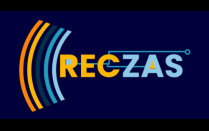
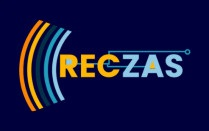
Add new images and remove outdated files; update script and style files

diff --git a/index.html b/index.html
@@ -102,7 +102,7 @@ Feel free to edit the HTML and CSS to make it your own. You can also check the R
             <div class="contact-info">
               <p class="contact-title">Phone</p>
 
-              <a href="tel:[phone redacted]" class="contact-link">[phone redacted]</a>
+              <a href="tel:[phone redacted]" class="contact-link">[phone redacted]</a>
             </div>
 
           </li>
@@ -253,10 +253,10 @@ Feel free to edit the HTML and CSS to make it your own. You can also check the R
 
         <section class="about-text">
           <p>
-            I'm a Graduate in Statistics, Computer Science and Mathematics from Colombo, Sri Lanka, passionate in
-            Data Science and AI developments.
-            I enjoy
-            turning complex problems into simple leveragaing AI and data-driven desicion making.
+            I'm a Graduate in Statistics, Computer Science and Mathematics, passionate in
+            Data Science and AI developments.I enjoy turning complex problems into simple by leveraging AI and
+            data-driven
+            desicion making.
           </p>
 
           <p>
@@ -510,7 +510,7 @@ Feel free to edit the HTML and CSS to make it your own. You can also check the R
               </a>
             </li>
             <li class="clients-item">
-              <a href="#">
+              <a href="https://mooflife.com" , target="_blank">
                 <img src="./assets/images/mooflife.jpg" alt="client logo" style="border-radius:12px">
               </a>
             </li>
@@ -591,7 +591,8 @@ Feel free to edit the HTML and CSS to make it your own. You can also check the R
               <span>2024 — Present</span>
 
               <p class="timeline-text">
-                Specializing in building RAG applications, Experienced with LLMs (Llama, OpenAI), LangChain framework,
+                Specializing in building Gen AI applications, Experienced with LLMs (Llama, OpenAI), LangChain
+                framework,
                 vector databases and prompt engineering techniques. Responsible for the full development lifecycle, from
                 requirements gathering to API development, deployment and maintenance.
                 <span><i>OpenAI, LangChain, MongoDB, Qdrant, FastAPI, GitHub Actions, Azure</i></span>
@@ -619,14 +620,14 @@ Feel free to edit the HTML and CSS to make it your own. You can also check the R
               <span>2024 — Present</span>
 
               <p class="timeline-text">
-                With the motive of learn & teach distributing the industrial knowledge, I am currently working on a
-                long_term project to help university students to learn and develop AI applications, with the help of
+                With the motive distributing the industrial knowledge, I am currently working on a
+                long-term project to help university students to learn and develop AI applications, with the help of
                 Reczas Team.
               </p>
 
             </li>
 
-            <li class="timeline-item">
+            <!-- <li class="timeline-item">
 
               <h4 class="h4 timeline-item-title">Open Source Contributor</h4>
 
@@ -636,7 +637,7 @@ Feel free to edit the HTML and CSS to make it your own. You can also check the R
 
               </p>
 
-            </li>
+            </li> -->
 
 
           </ol>
@@ -713,7 +714,7 @@ Feel free to edit the HTML and CSS to make it your own. You can also check the R
 
               <p class="timeline-text">
                 Python, NumPy, Pandas, Scikit-Learn, Keras, Matplotlib,
-                Seaborn, Excel, Power BI, <span><b><i>LangChain, Llama Index</i></b></span>
+                Seaborn <span><b><i>LangChain, Llama Index</i></b></span>
               </p>
 
             </li>
@@ -956,6 +957,47 @@ Feel free to edit the HTML and CSS to make it your own. You can also check the R
 
           <ul class="project-list">
 
+            <li class="project-item  active" data-filter-item data-category="client's projects">
+              <a href="https://handsome-dirigible-1a9.notion.site/Wikipedia-Revisions-Parser-1b2b559fc46580ecb96af4c6a81de56c"
+                , target="_blank">
+                <figure class="project-img">
+                  <div class="project-item-icon-box">
+                    <ion-icon name="eye-outline"></ion-icon>
+                  </div>
+
+                  <img src="./assets/images/clientproject02.jpg" alt="GenAI" loading="lazy">
+                </figure>
+
+                <h3 class="project-title">Wikipedia Revisions Parser | END to END</h3>
+
+                <p class="project-category">Client's Projects</p>
+
+              </a>
+
+            </li>
+
+            <li class="project-item  active" data-filter-item data-category="client's projects">
+              <a href="https://handsome-dirigible-1a9.notion.site/History-Aware-Moment-Creation-Model-1b2b559fc46580249ed1ea4386efc2f0"
+                , target="_blank">
+                <figure class="project-img">
+                  <div class="project-item-icon-box">
+                    <ion-icon name="eye-outline"></ion-icon>
+                  </div>
+
+                  <img src="./assets/images/clientproject02.jpg" alt="GenAI" loading="lazy">
+                </figure>
+
+                <h3 class="project-title">History-Aware Moment Creation Model | END to END</h3>
+
+                <p class="project-category">Client's Projects</p>
+
+              </a>
+
+            </li>
+
+
+
+
             <li class="project-item  active" data-filter-item data-category="personal projects">
               <a href="https://github.com/Samitha10/AI-Assistant" , target="_blank">
 
@@ -982,7 +1024,7 @@ Feel free to edit the HTML and CSS to make it your own. You can also check the R
                     <ion-icon name="eye-outline"></ion-icon>
                   </div>
 
-                  <img src="./assets/images/rag.jpeg" alt="orizon" loading="lazy">
+                  <img src="./assets/images/rag.jpg" alt="orizon" loading="lazy">
                 </figure>
 
                 <h3 class="project-title">RAG Chatbot with History</h3>
@@ -1000,7 +1042,7 @@ Feel free to edit the HTML and CSS to make it your own. You can also check the R
                     <ion-icon name="eye-outline"></ion-icon>
                   </div>
 
-                  <img src="./assets/images/financial1.jpeg" alt="fundo" loading="lazy">
+                  <img src="./assets/images/financial1.jpg" alt="fundo" loading="lazy">
                 </figure>
 
                 <h3 class="project-title">Financial Planning with AI | Full Stack</h3>
@@ -1037,7 +1079,7 @@ Feel free to edit the HTML and CSS to make it your own. You can also check the R
                     <ion-icon name="eye-outline"></ion-icon>
                   </div>
 
-                  <img src="./assets/images/esd.png" alt="dsm." loading="lazy">
+                  <img src="./assets/images/esd.jpg" alt="dsm." loading="lazy">
                 </figure>
 
                 <h3 class="project-title">Enterprise Software Development (Design) – Vision Care Optical</h3>

diff --git a/assets/css/style.css b/assets/css/style.css
@@ -756,7 +756,7 @@ main {
 
 .clients-item img {
   width: 100%;
-  filter: grayscale(1);
+  /* filter: grayscale(1); */
   transition: var(--transition-1);
 }
 
@@ -1897,5 +1897,6 @@ textarea.form-input::-webkit-resizer { display: none; }
     width: 200%;
   }
 
-
 }
+
+